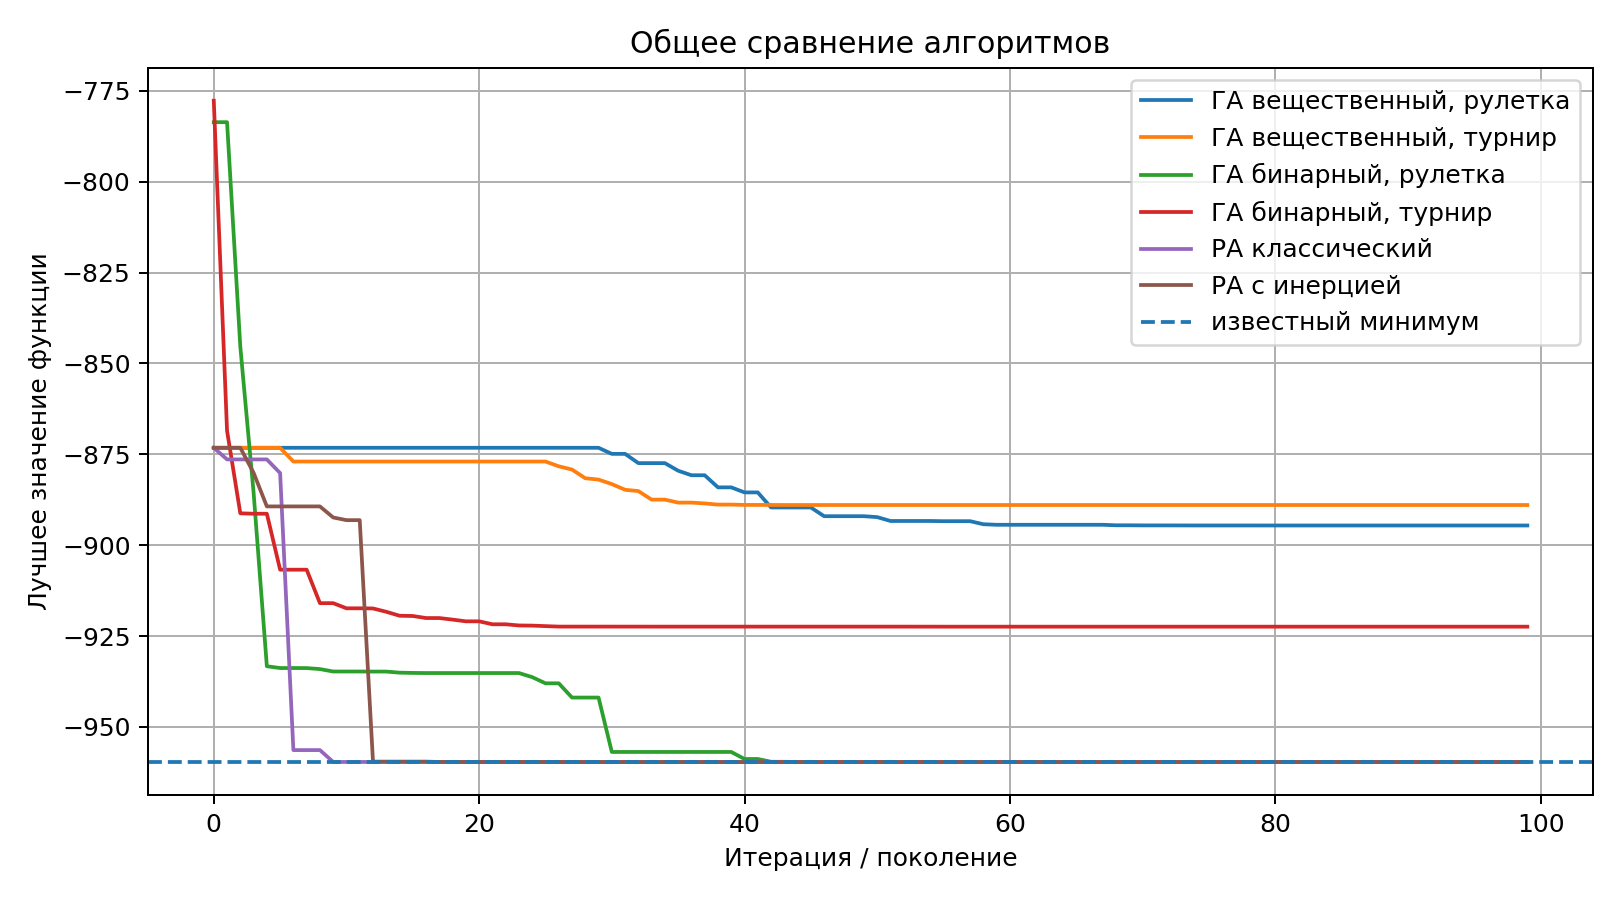
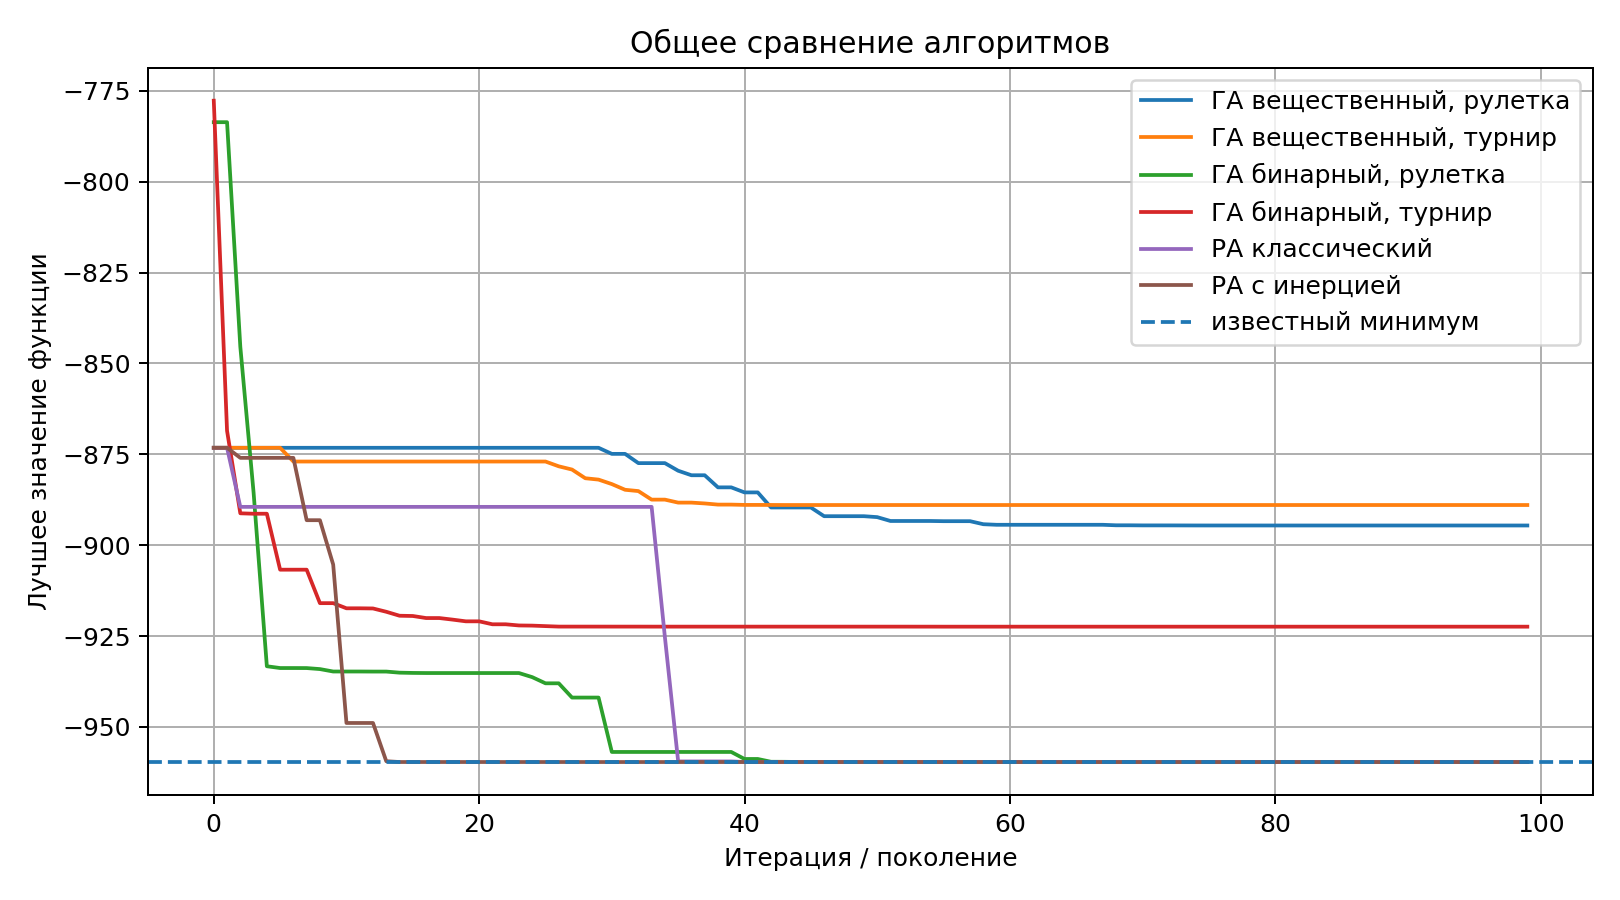
Лабораторная работа 1: ГА и РА — вариант 10 (финальная версия)
Исправления PSO: независимые случайные коэффициенты для каждой координаты, отражение скоростей на границах. Удалены устаревшие ga_flow.png и pso_flow.png.

Changed region(s): [[0.1235, 0.4978, 0.4012, 0.5911], [0.216, 0.7778, 0.2469, 0.84]]

diff --git a/variant10_ga_pso_system.py b/variant10_ga_pso_system.py
@@ -355,25 +355,33 @@ def particle_swarm(
             inertia = 1.0
 
         for particle in particles:
-            r1 = random.random()
-            r2 = random.random()
+            # Независимые случайные коэффициенты для каждой координаты и компоненты
+            r1x, r1y = random.random(), random.random()
+            r2x, r2y = random.random(), random.random()
             particle.vx = (
                 inertia * particle.vx
-                + c1 * r1 * (particle.pbest_x - particle.x)
-                + c2 * r2 * (gbest_x - particle.x)
+                + c1 * r1x * (particle.pbest_x - particle.x)
+                + c2 * r2x * (gbest_x - particle.x)
             )
             particle.vy = (
                 inertia * particle.vy
-                + c1 * r1 * (particle.pbest_y - particle.y)
-                + c2 * r2 * (gbest_y - particle.y)
+                + c1 * r1y * (particle.pbest_y - particle.y)
+                + c2 * r2y * (gbest_y - particle.y)
             )
 
             if velocity_limit is not None:
                 particle.vx = clamp(particle.vx, -velocity_limit, velocity_limit)
                 particle.vy = clamp(particle.vy, -velocity_limit, velocity_limit)
 
-            particle.x = clamp(particle.x + particle.vx)
-            particle.y = clamp(particle.y + particle.vy)
+            new_x = particle.x + particle.vx
+            new_y = particle.y + particle.vy
+            # При выходе за границу — отражение скорости, чтобы не прилипать к стенкам
+            if new_x < LOWER_BOUND or new_x > UPPER_BOUND:
+                particle.vx *= -0.5
+            if new_y < LOWER_BOUND or new_y > UPPER_BOUND:
+                particle.vy *= -0.5
+            particle.x = clamp(new_x)
+            particle.y = clamp(new_y)
             value = evaluate(particle.x, particle.y)
 
             if value < particle.pbest_value:
